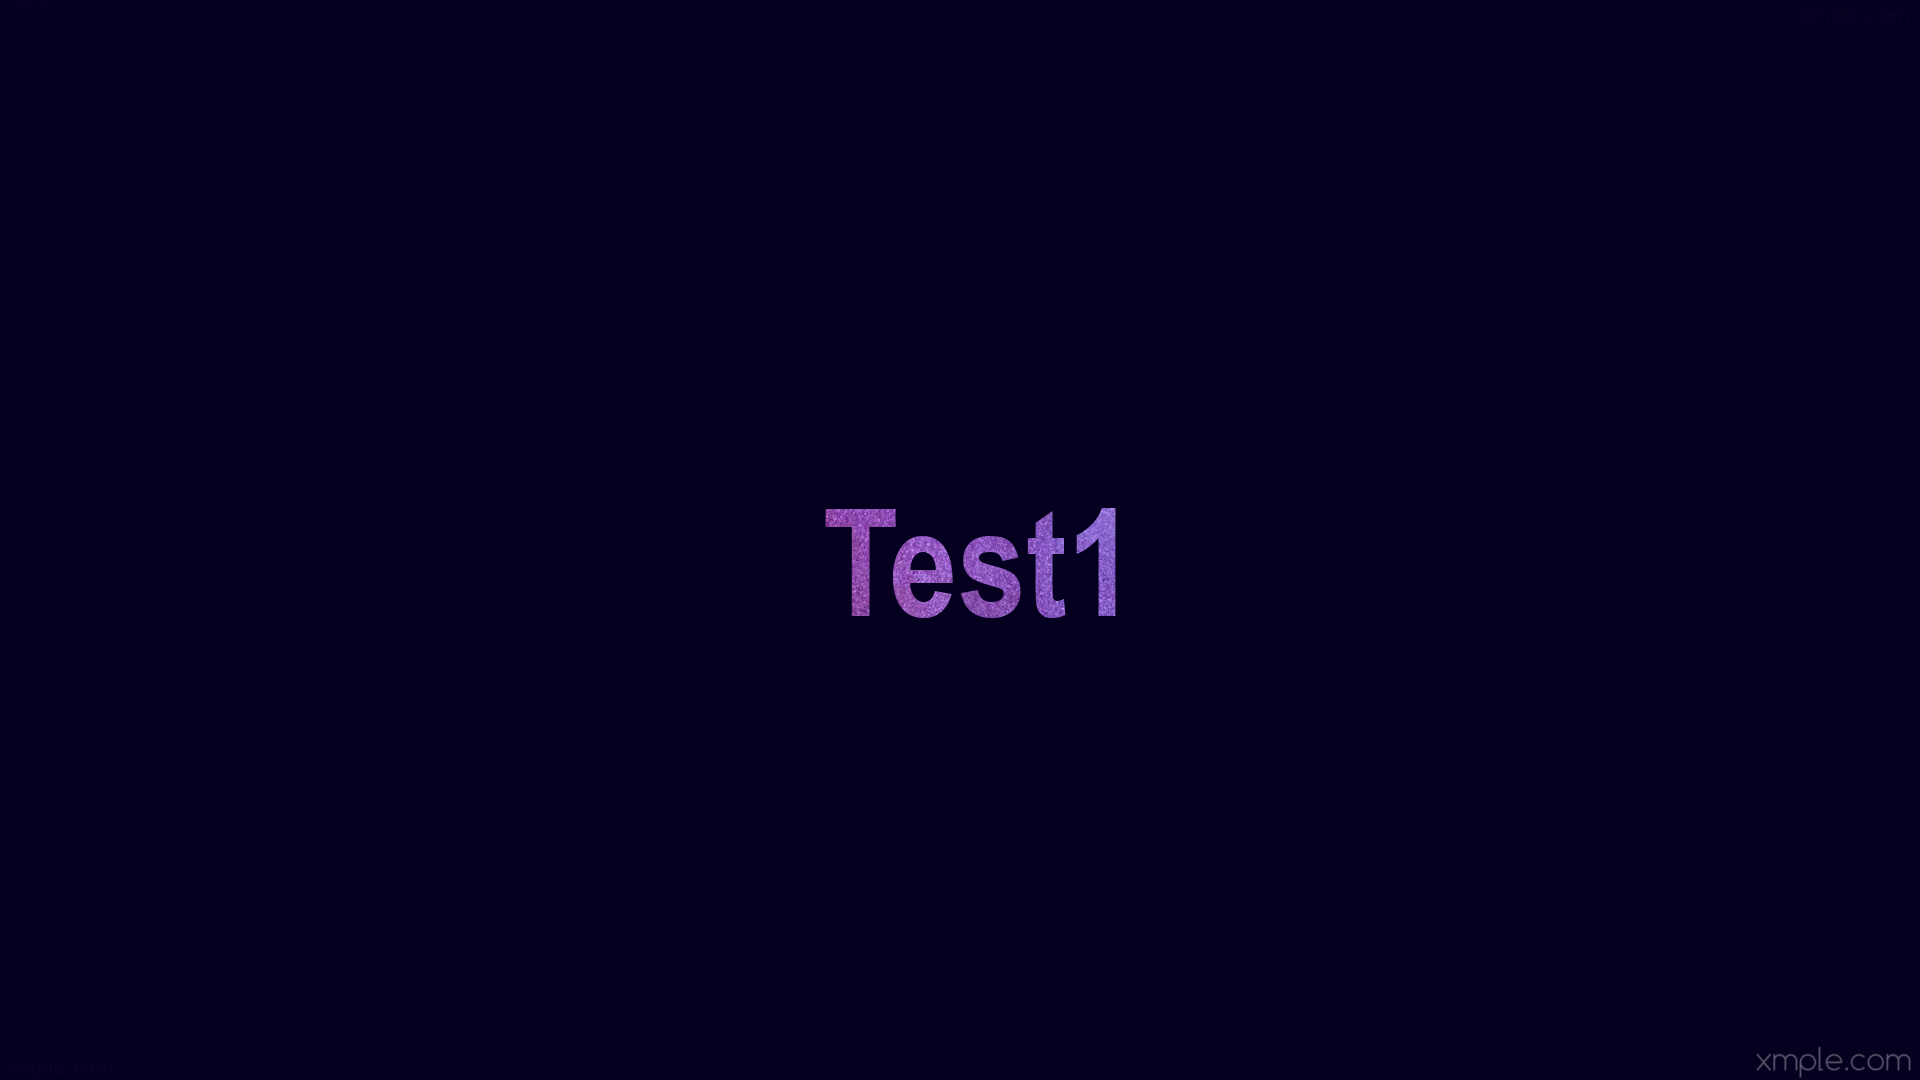
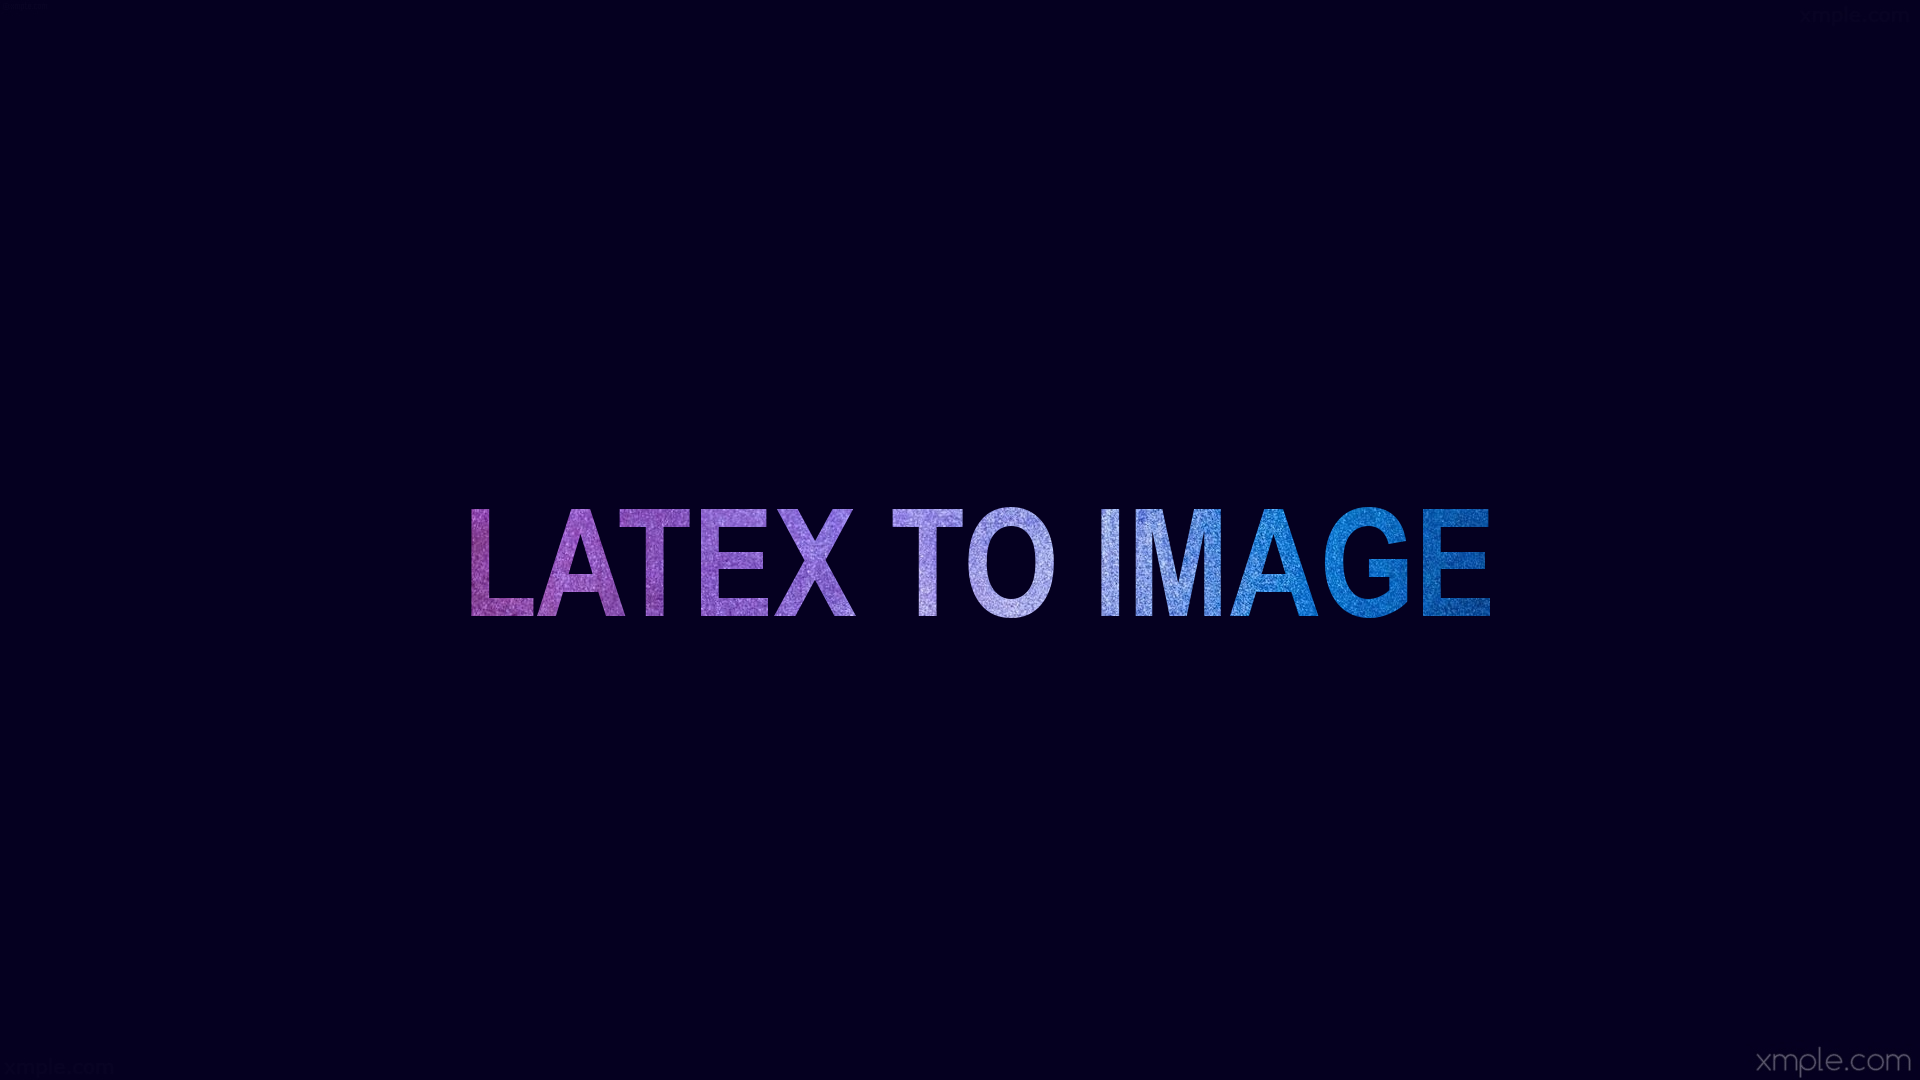
latex_to_image_update

Changed region(s): [[0.2188, 0.4583, 0.7812, 0.5806]]

diff --git a/test2.md b/test2.md
@@ -1,10 +1,10 @@
-# Test1
+# LATEX TO IMAGE
 
 CH
-#### Test 4
-- P1
-- P2
-- P3
+#### STEPS FOR CONVERSION
+- Use Matplotlib to get the image of the LAtex Equation
+- Save that in the PDF Form
+- Use Pdf2Image to open it.
 
 CH
 
